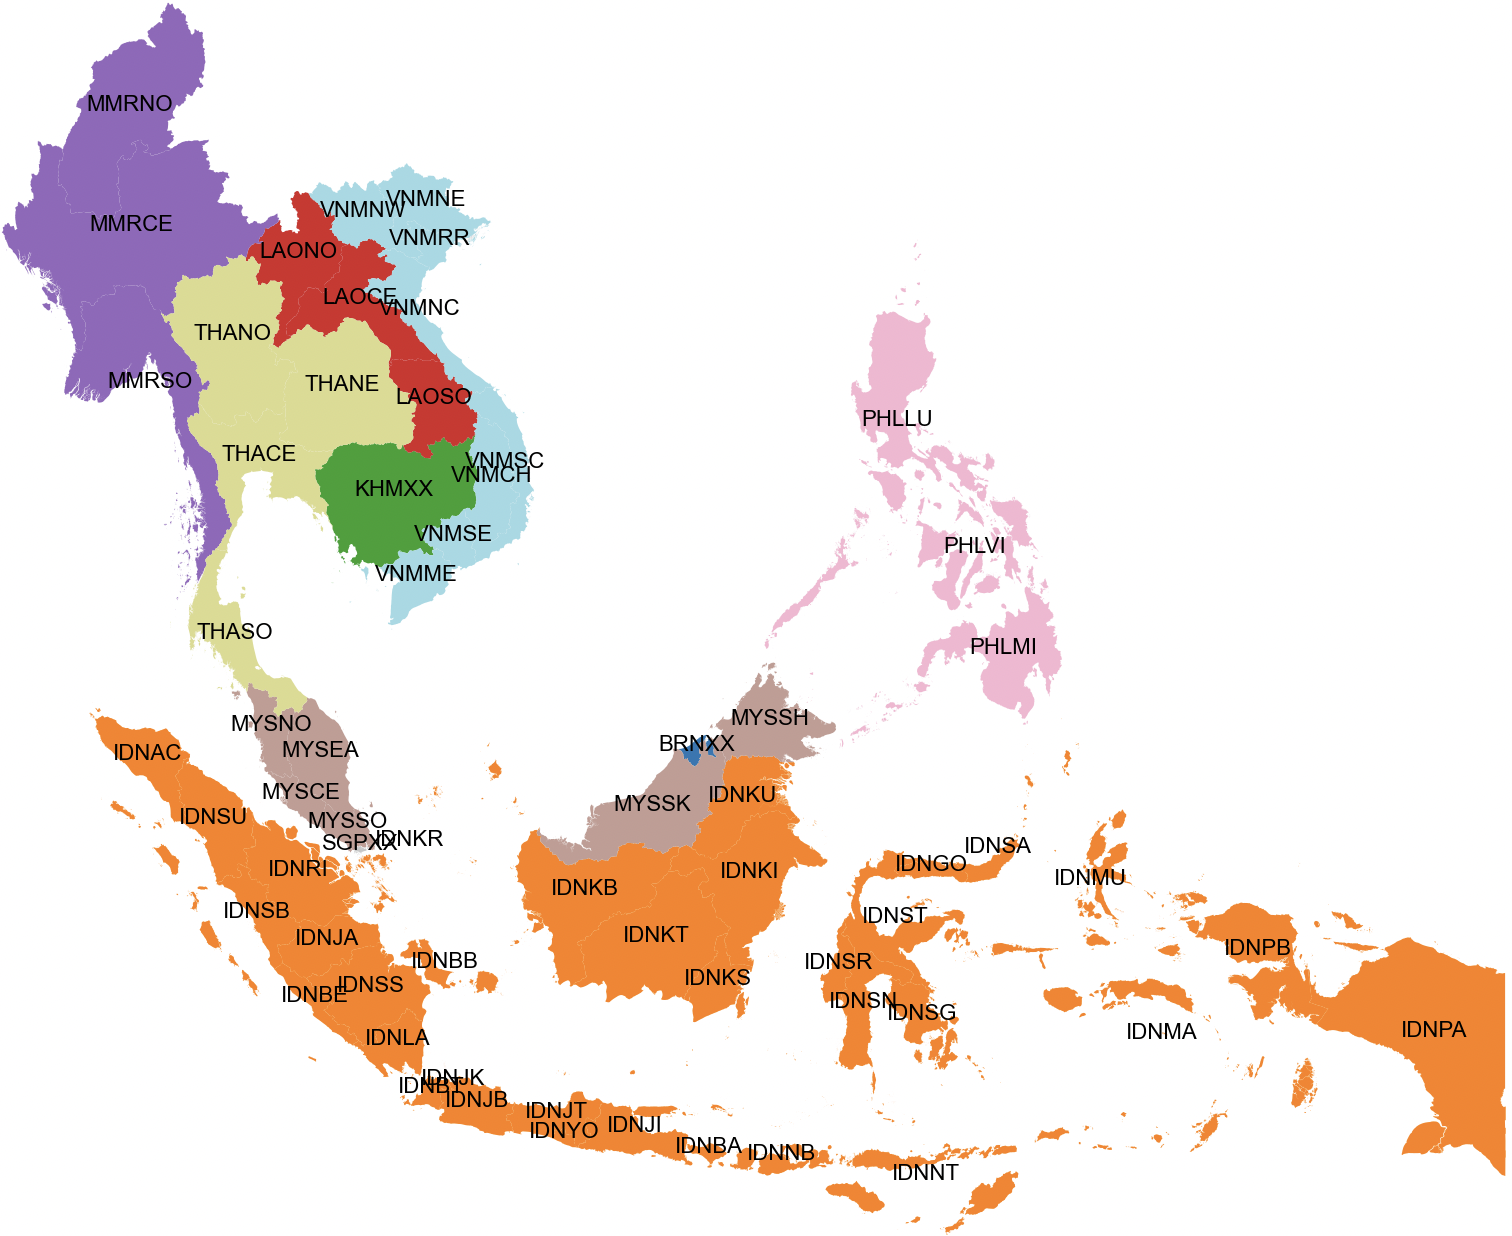
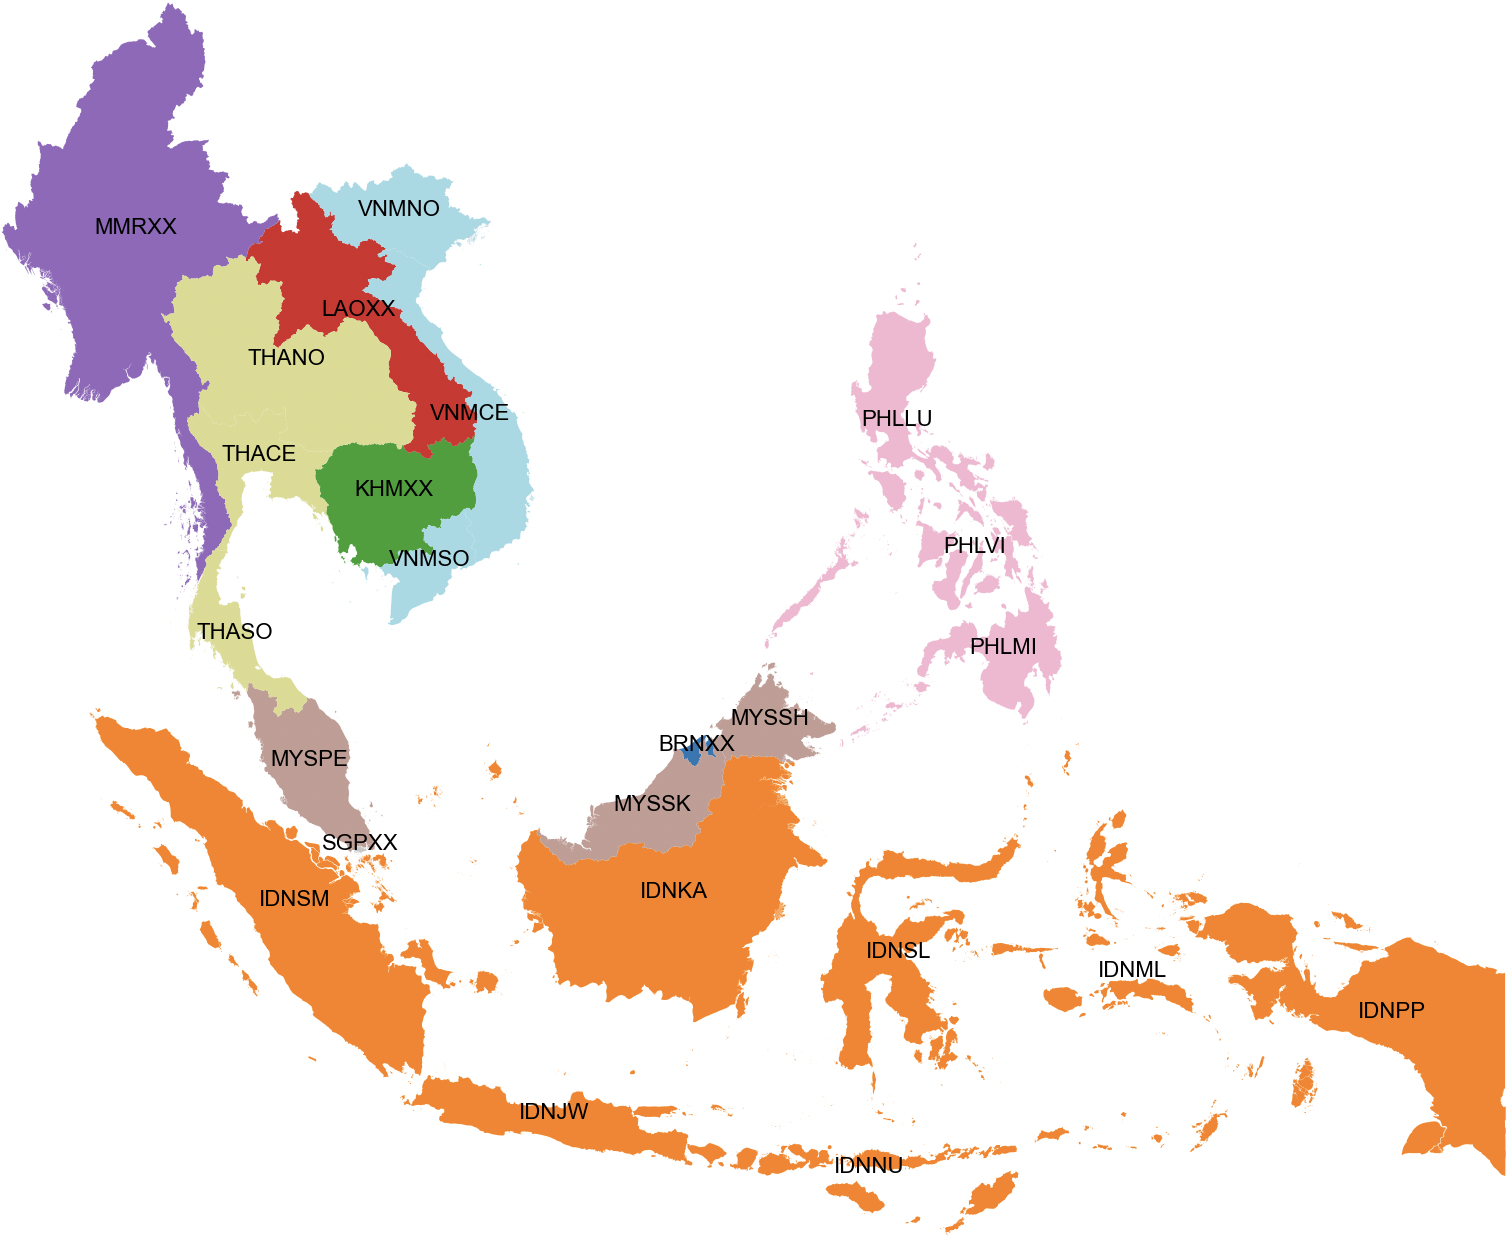
Docs for ASEAN

diff --git a/docs/asean.md b/docs/asean.md
@@ -18,13 +18,13 @@ electricity systems are their spatial and temporal resolution.
 
 ### Spatial resolution
 
-The model represents all 34 provinces of Indonesia across 7 regions - shown in 
-the table and map below - as individual nodes. 
+The model represents all AMS as individually, with Vietnam, Thailand, Indonesia, 
+Malaysia, and the Philippines at a sub-national level and the remaining five AMS
+at the national level. This is shown in the table and map below. 
 
 ![ASEAN_map](./figures/asean_map.png "ASEAN model representation")
 
-** AMS represented in FEO at the sub-national level for Vietnam, Thailand, 
-Indonesia, Malaysia, and the Philippines **
+** AMS regional definitions  **
 
 {{ read_csv('./tables/asean_nodes.csv') }}
 
